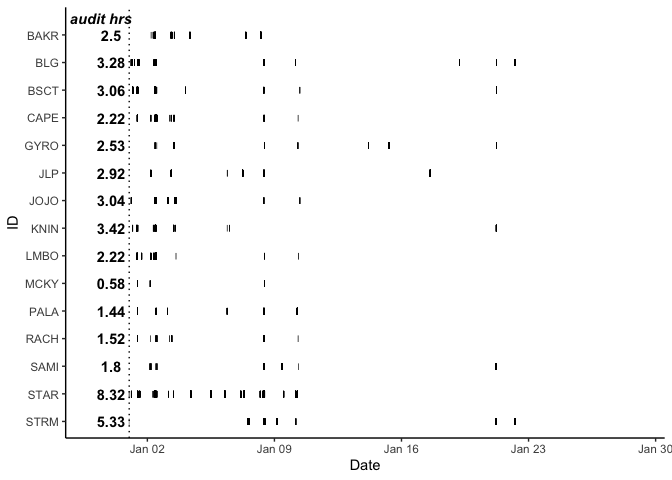
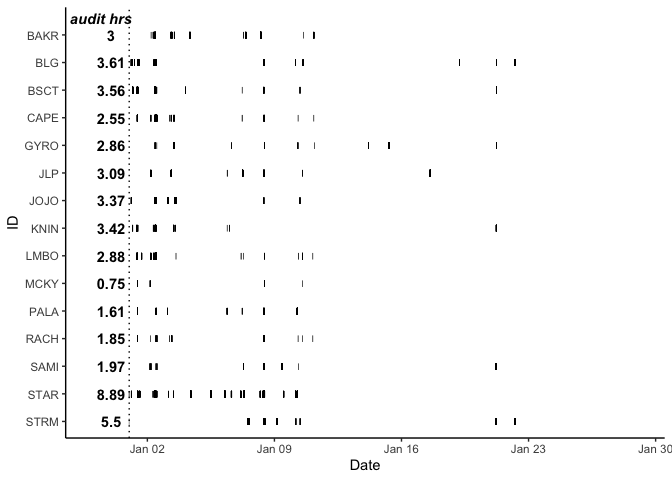
update README

diff --git a/README.md b/README.md
@@ -1,9 +1,9 @@
 # Hyena cc23 labeling status
-Last updated on May 08, 2024
+Last updated on May 20, 2024
 
 ### Current state
 
-There are 5.11 hours of calls in 44.18 hours of total audit time.
+There are 5.16 hours of calls in 48.92 hours of total audit time.
 
 ### Labels by date and id
 
@@ -15,15 +15,15 @@ There are 5.11 hours of calls in 44.18 hours of total audit time.
 
 | call | total_count |  foc |  non | unf | total_duration | total_inds | total_audits |
 |:-----|------------:|-----:|-----:|----:|---------------:|-----------:|-------------:|
-| whp  |        2825 | 1127 | 1676 |  18 |        4023.61 |         15 |          149 |
-| grn  |        3013 | 2038 |  873 |  88 |        3813.85 |         15 |          128 |
-| gig  |         623 |   87 |  475 |  58 |         642.81 |         15 |           72 |
-| rum  |         334 |  192 |  131 |  11 |         506.55 |         13 |           50 |
-| sql  |        1270 |  132 | 1021 | 115 |        1072.05 |         15 |           66 |
+| whp  |        2834 | 1127 | 1685 |  18 |        4039.06 |         15 |          151 |
+| grn  |        3069 | 2083 |  884 |  88 |        3894.67 |         15 |          135 |
+| gig  |         636 |   90 |  483 |  60 |         653.63 |         15 |           77 |
+| rum  |         342 |  198 |  133 |  11 |         523.94 |         13 |           52 |
+| sql  |        1277 |  134 | 1026 | 115 |        1082.15 |         15 |           70 |
 | grl  |           3 |    0 |    3 |   0 |           1.29 |          2 |            3 |
 | fed  |         551 |  538 |    3 |  11 |        6086.02 |         10 |           17 |
-| str  |         857 |    2 |  847 |   3 |         991.48 |         14 |           68 |
-| oth  |        1404 |  159 | 1119 | 108 |         623.35 |         15 |          113 |
+| str  |         865 |    2 |  855 |   3 |        1004.19 |         14 |           70 |
+| oth  |        1445 |  166 | 1152 | 108 |         649.84 |         15 |          123 |
 | syn  |          11 |    0 |    0 |   0 |           4.52 |          3 |            4 |
 
 ### Start and end of audit issues
